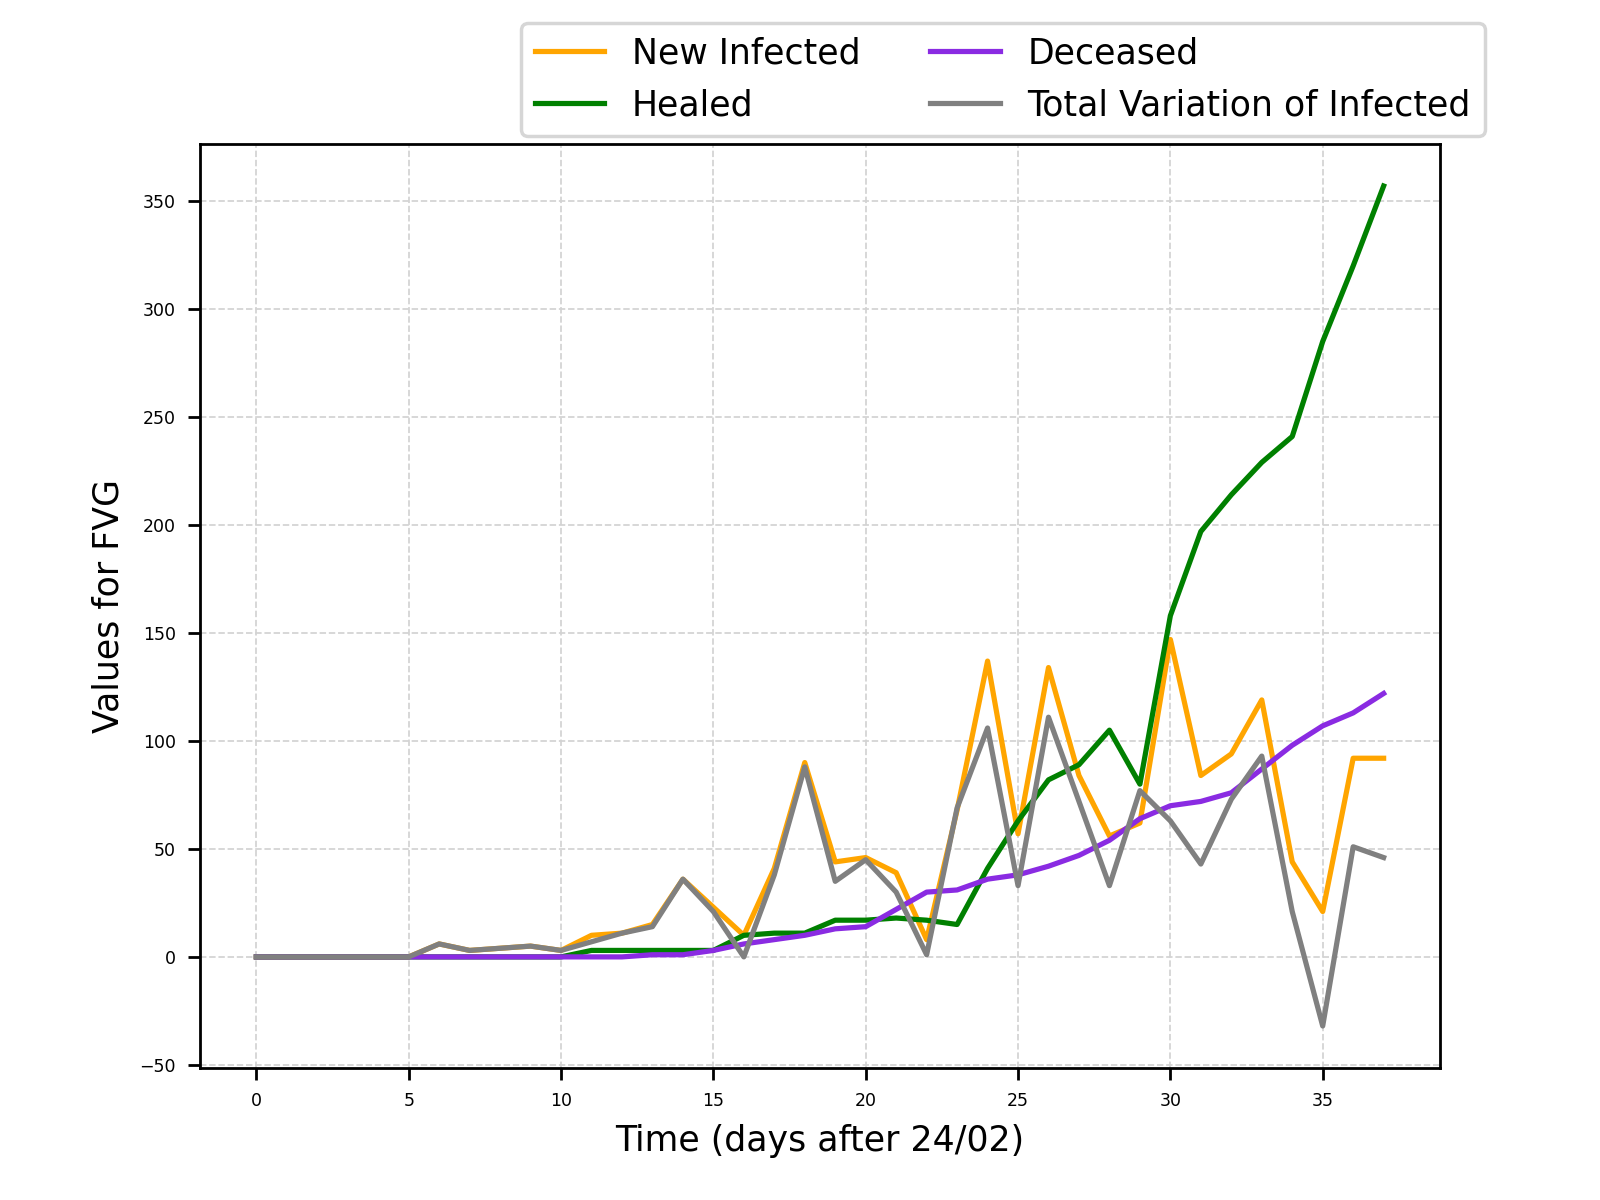
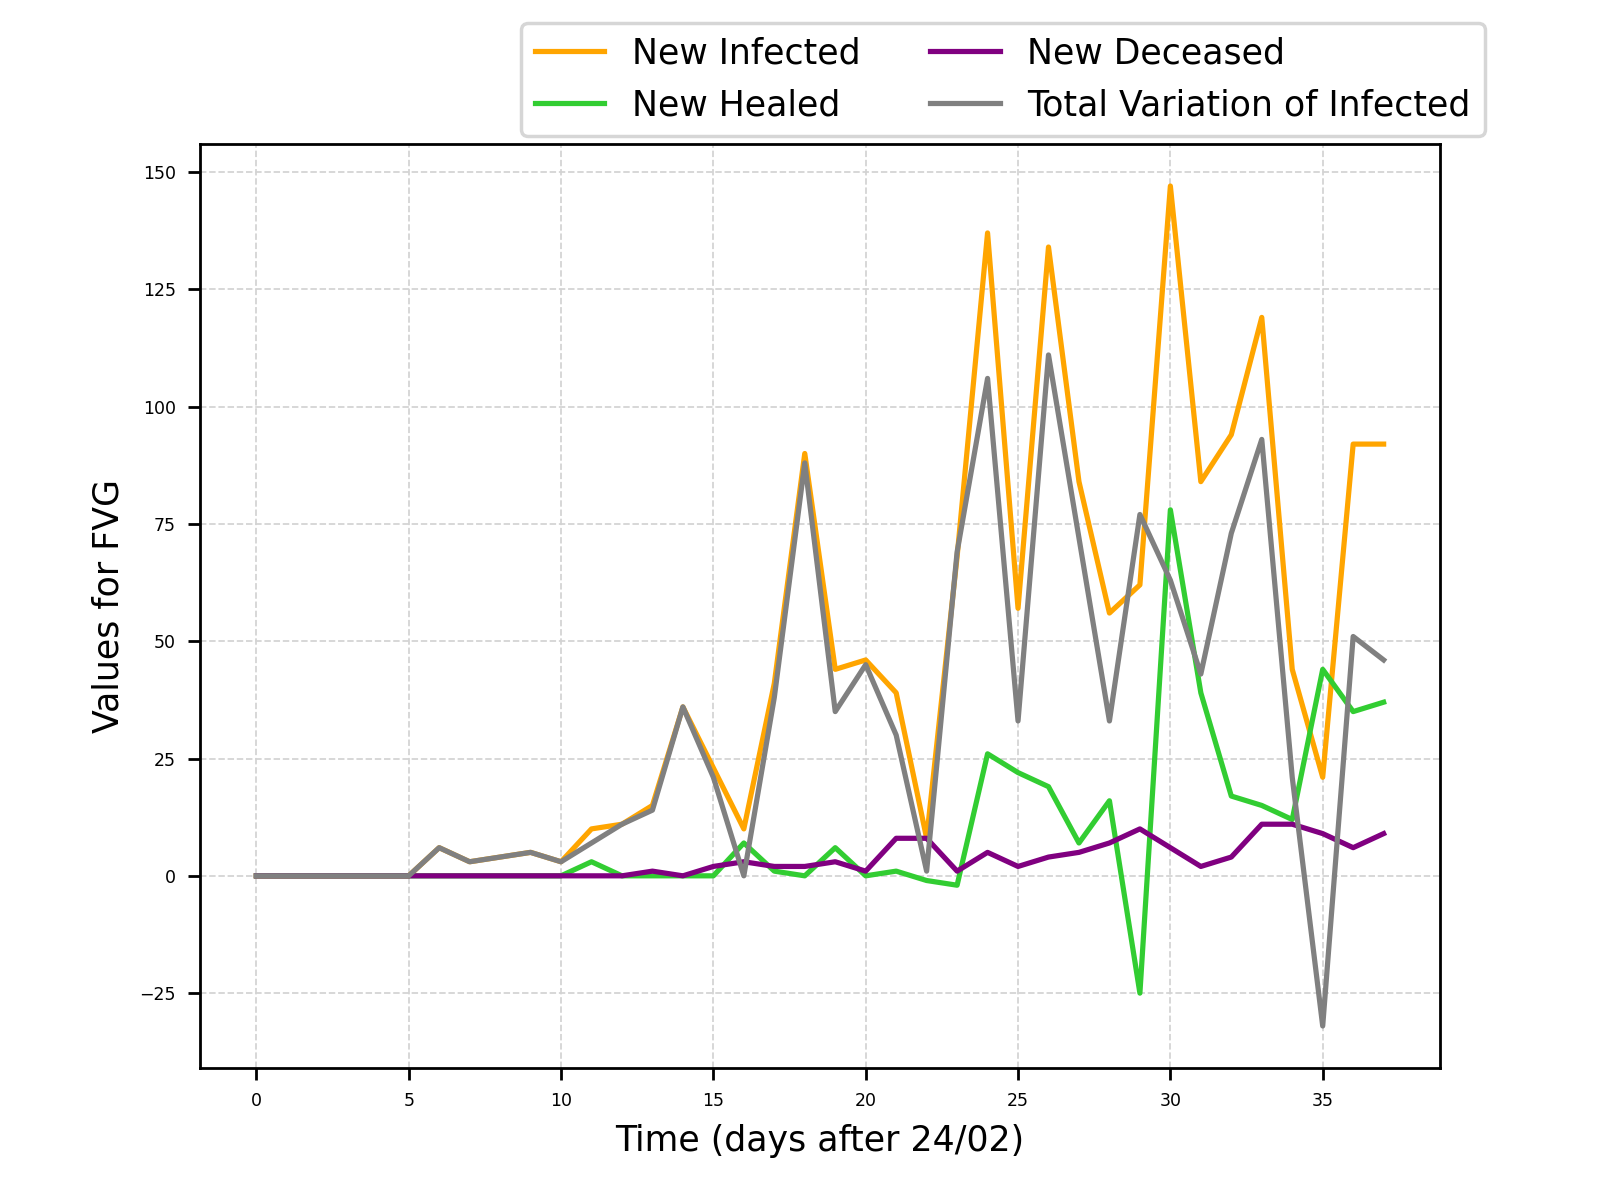
situation of fvg a posto

diff --git a/regional.py b/regional.py
@@ -36,10 +36,6 @@ print(dataset.describe())
 
 # yesterday
 yesterday='2020-03-31T17:00:00'
-yesterday_tot_cases = dataset.loc[dataset['data']==yesterday][
-['denominazione_regione','totale_casi','totale_positivi', 'nuovi_positivi', 'dimessi_guariti', 'deceduti', 'variazione_totale_positivi',
- 'isolamento_domiciliare', 'totale_ospedalizzati', 'terapia_intensiva']
-]
 
 # today
 last_date = '2020-04-01T17:00:00'
@@ -65,8 +61,8 @@ print('\n')
 ################################################################################################################################
 
 # Write reports of hospital's situation to file
-report_h = open("./covid-19-regional-hospital-report.txt", "w")
-report_h.write("REPORT of REGIONAL HOSPITAL'S SITUATION\n")
+report_h = open("./covid-19-regional-report.txt", "w")
+report_h.write("REPORT of REGIONAL SITUATION\n")
 report_h.write(last_tot_cases.to_string(index=False))
 report_h.close()
 
@@ -107,13 +103,37 @@ plt.grid(color='lightgray', linestyle='--', linewidth=0.5)
 plt.savefig('./region-fvg/fvg-curves-1.png', dpi = 250)
 plt.clf()
 
+# new healed and new deceased fvg
+healed_fvg = dataset.loc[dataset['denominazione_regione']=='Friuli Venezia Giulia']['dimessi_guariti']
+deceased_fvg = dataset.loc[dataset['denominazione_regione']=='Friuli Venezia Giulia']['deceduti']
+
+new_healed_fvg = []
+new_deceased_fvg = []
+
+for i in range(len(healed_fvg)):
+    if(i < 1):
+        new_healed_fvg.append(
+        healed_fvg.iloc[i]
+        )
+        new_deceased_fvg.append(
+        deceased_fvg.iloc[i]
+        )
+    else:
+        #otherwise calculate daily healed and deceased
+        new_healed_fvg.append(
+        healed_fvg.iloc[i]-healed_fvg.iloc[i-1]
+        )
+        new_deceased_fvg.append(
+        deceased_fvg.iloc[i]-deceased_fvg.iloc[i-1]
+        )
+
 plt.xlabel('Time (days after 24/02)')
 plt.ylabel('Values for FVG')
 plt.plot(days, data_fvg['nuovi_positivi'], c='orange', linestyle='-')
-plt.plot(days, data_fvg['dimessi_guariti'], c='green', linestyle='-')
-plt.plot(days, data_fvg['deceduti'], c='blueviolet', linestyle='-')
+plt.plot(days, new_healed_fvg, c='limegreen', linestyle='-')
+plt.plot(days, new_deceased_fvg, c='purple', linestyle='-')
 plt.plot(days, data_fvg['variazione_totale_positivi'], c='grey',  linestyle='-')
-plt.legend(('New Infected','Healed','Deceased', 'Total Variation of Infected'),loc='upper right', bbox_to_anchor=(1.05, 1.15), ncol=2)
+plt.legend(('New Infected','New Healed','New Deceased', 'Total Variation of Infected'),loc='upper right', bbox_to_anchor=(1.05, 1.15), ncol=2)
 plt.grid(color='lightgray', linestyle='--', linewidth=0.5)
 plt.savefig('./region-fvg/fvg-curves-2.png', dpi = 250)
 plt.clf()
